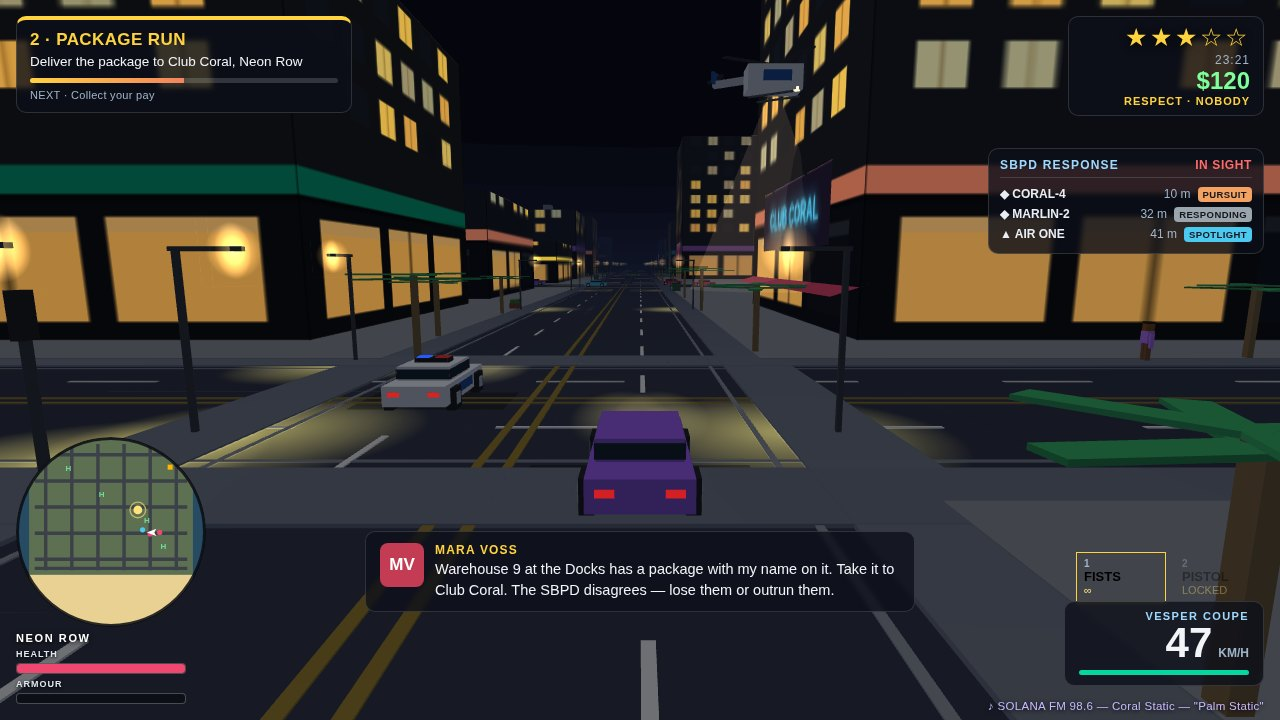
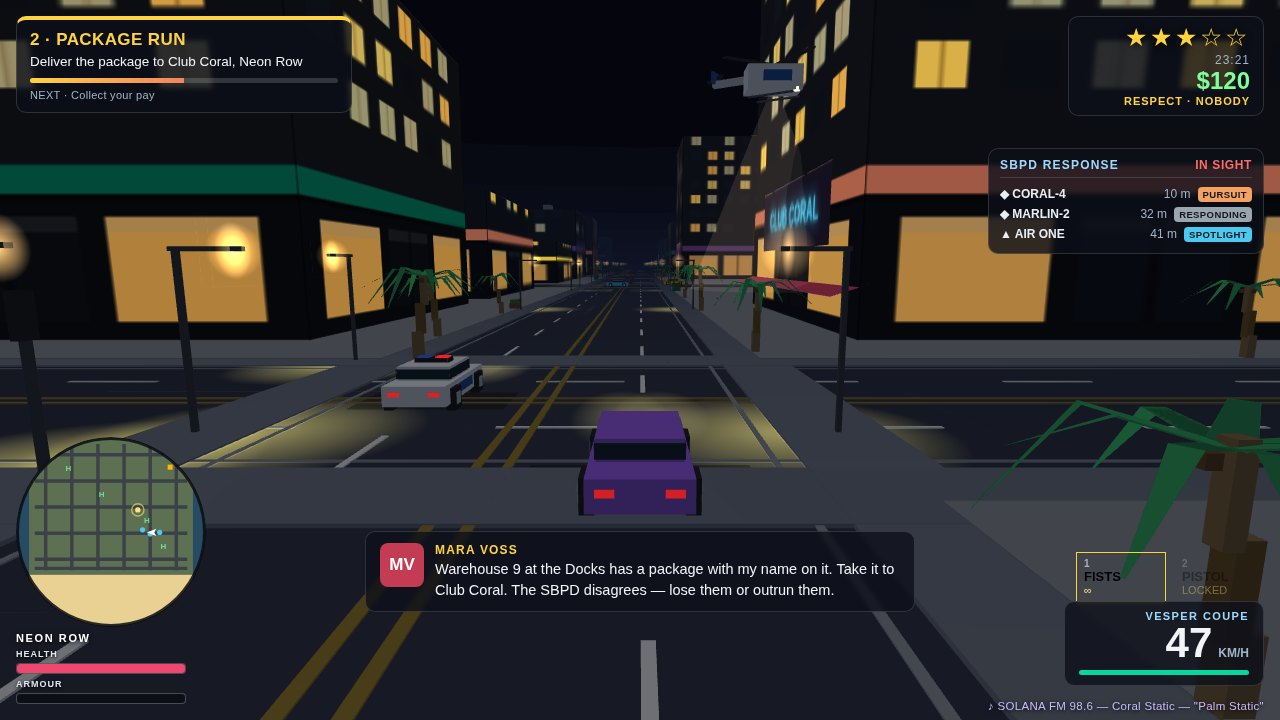
Palms reworked: curved tapered trunks, drooping two-segment fronds, coconuts
The old palms were a straight pole with six flat horizontal boxes — they
read as green asterisks. Trunks are now three stacked, thinning boxes
nudged along a per-palm lean; crowns carry 8-10 fronds built from pairs
of tapered quads (inner segment arcs up, outer droops 40-58 degrees),
two-tone green, with a pair of coconuts under the crown. All variation
comes from a position hash, so the seeded city layout is unchanged.
Screenshots re-shot from the rebuilt city.

diff --git a/game/src/city.js b/game/src/city.js
@@ -296,14 +296,61 @@ export function buildCity(gl, atlas, seed = 7) {
   }
 
   // ---- palms: sidewalk corners + a beach row
-  const trunkCol = rgb('#8a6b48'), frondCol = rgb('#2e9e5b'), frondCol2 = rgb('#37b268');
+  // Trunk: three stacked boxes, each a touch thinner and nudged further along
+  // a per-palm lean, so the palm tapers and curves instead of standing bolt
+  // upright on a single pole. Crown: 8-10 fronds, each two tapered quads —
+  // the inner segment arcs up out of the crown, the outer one droops
+  // 35-55° — so they read as leaves, not a flat green asterisk. A pair of
+  // coconuts sits under the crown. All variation comes from a position
+  // hash, never rng(): the seeded rng stream (and with it the rest of the
+  // city's layout) stays exactly as it was.
+  const trunkCol = rgb('#8a6b48'), trunkCol2 = rgb('#77592f'), frondCol = rgb('#2e9e5b'), frondCol2 = rgb('#37b268'), nutCol = rgb('#6b4a2f');
+  const hash1 = (n) => { const v = Math.sin(n) * 43758.5453; return v - Math.floor(v); };
+  // One tapered leaf segment from p0 along (angle a, pitch) for len, widths
+  // hw0 -> hw1; emitted double-sided with the leaf normal on each face.
+  // Returns the tip point so the drooping second segment can start there.
+  const frondSeg = (p0, a, pitch, len, hw0, hw1, col) => {
+    const cp = Math.cos(pitch), sp = Math.sin(pitch);
+    const dx = Math.cos(a) * cp, dy = sp, dz = Math.sin(a) * cp;
+    const sx = -Math.sin(a), sz = Math.cos(a);
+    const p1 = [p0[0] + dx * len, p0[1] + dy * len, p0[2] + dz * len];
+    const n = [-sz * dy, sz * dx - sx * dz, sx * dy]; // side x dir: up-facing for a leaf
+    const c0 = [p0[0] + sx * hw0, p0[1], p0[2] + sz * hw0], c1 = [p0[0] - sx * hw0, p0[1], p0[2] - sz * hw0];
+    const c2 = [p1[0] - sx * hw1, p1[1], p1[2] - sz * hw1], c3 = [p1[0] + sx * hw1, p1[1], p1[2] + sz * hw1];
+    B.plane(c1, c0, c3, c2, n, col);
+    B.plane(c0, c1, c2, c3, [-n[0], -n[1], -n[2]], col);
+    return p1;
+  };
   const palm = (x, z, s) => {
     palms.push({ x, z });
-    B.box(x, 1.7 * s, z, 0.28, 3.4 * s, 0.28, { color: trunkCol, topColor: trunkCol });
-    for (let i = 0; i < 6; i++) {
-      const a = (i / 6) * Math.PI * 2 + x * 0.13;
-      const fx = x + Math.cos(a) * 1.25 * s, fz = z + Math.sin(a) * 1.25 * s;
-      B.boxR(fx, (3.45 - (i % 2) * 0.16) * s, fz, 2.6 * s, 0.07, 0.6 * s, -a, { color: i % 2 ? frondCol : frondCol2, topColor: frondCol2 });
+    const H = 3.4 * s, segH = H / 3;
+    const leanA = hash1(x * 12.99 + z * 78.23) * Math.PI * 2;
+    const leanTop = (0.30 + hash1(x * 3.71 - z * 9.13) * 0.38) * s;
+    for (let i = 0; i < 3; i++) {
+      const t = (i + 0.5) / 3;
+      const off = leanTop * Math.pow(t, 1.35); // offset grows along the curve
+      const wdt = (0.37 - i * 0.06) * s;
+      B.box(x + Math.cos(leanA) * off, (i + 0.5) * segH, z + Math.sin(leanA) * off, wdt, segH + 0.1, wdt,
+        { color: i === 1 ? trunkCol2 : trunkCol, topColor: trunkCol });
+    }
+    const cx = x + Math.cos(leanA) * leanTop, cz = z + Math.sin(leanA) * leanTop, cy = H - 0.04;
+    // coconuts: two small brown cubes tucked under the crown
+    for (let k = 0; k < 2; k++) {
+      const na = leanA + k * 2.4 + 0.7;
+      B.box(cx + Math.cos(na) * 0.17 * s, cy - 0.16 * s, cz + Math.sin(na) * 0.17 * s, 0.19 * s, 0.19 * s, 0.19 * s, { color: nutCol, topColor: nutCol });
+    }
+    const crown = [cx, cy, cz];
+    const nFronds = 8 + Math.floor(hash1(x * 5.3 + z * 2.9) * 3); // 8-10
+    for (let i = 0; i < nFronds; i++) {
+      const h1 = hash1(x * 1.31 + z * 4.17 + i * 7.77), h2 = hash1(x * 8.53 - z * 1.93 + i * 3.31);
+      const a = (i / nFronds) * Math.PI * 2 + (h1 - 0.5) * 0.55 + x * 0.13;
+      let len = (2.5 + h2 * 0.9) * s;
+      let droop = (40 + h1 * 18) * Math.PI / 180; // outer segment: 40-58° down
+      if (i % 3 === 0) { len *= 0.8; droop *= 0.68; } // a shorter, younger layer
+      const rise = (7 + h2 * 10) * Math.PI / 180; // inner segment arcs up first
+      const colA = i % 2 ? frondCol : frondCol2, colB = i % 2 ? frondCol2 : frondCol;
+      const joint = frondSeg(crown, a, rise, len * 0.44, 0.22 * s, 0.145 * s, colA);
+      frondSeg(joint, a, -droop, len * 0.56, 0.145 * s, 0.02 * s, colB);
     }
   };
   for (const ax of AVENUES_X) for (let z = -30; z < 470; z += 46) {
